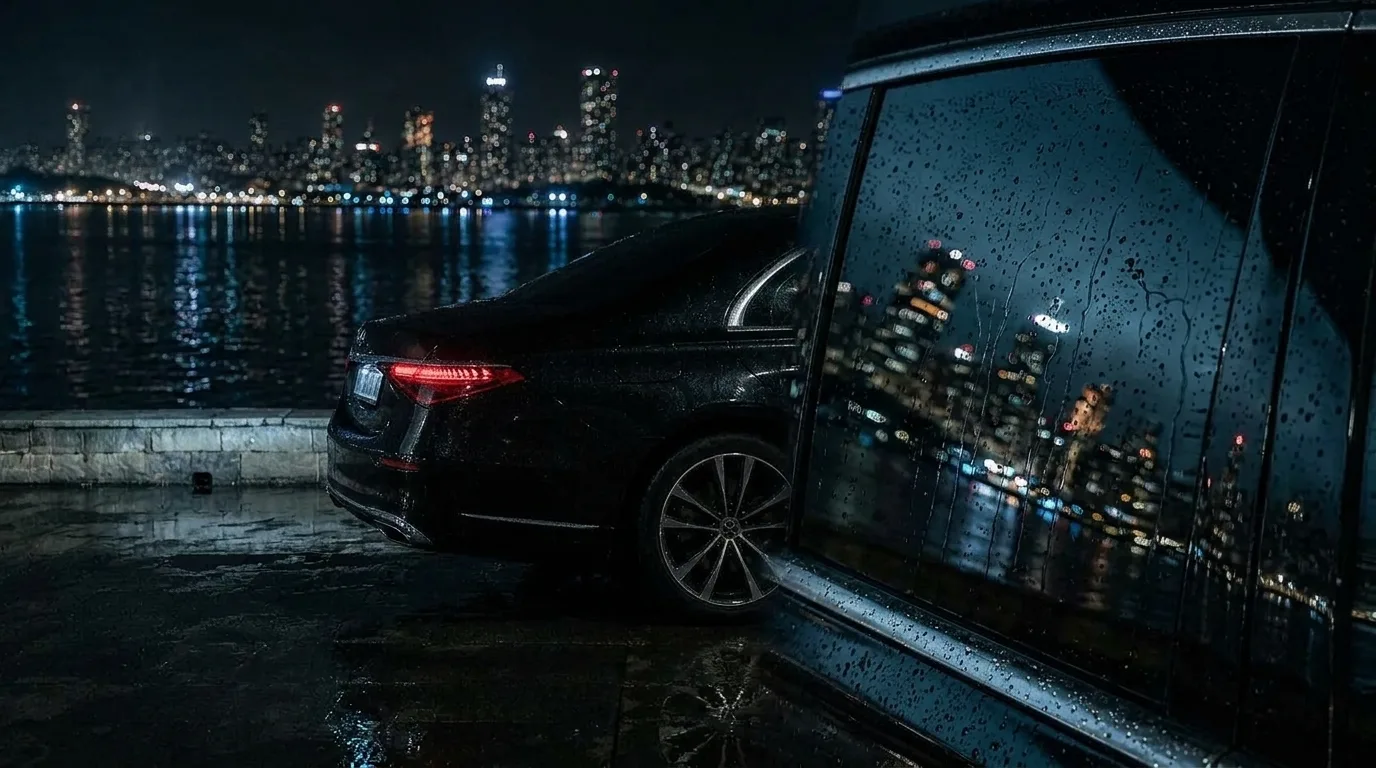
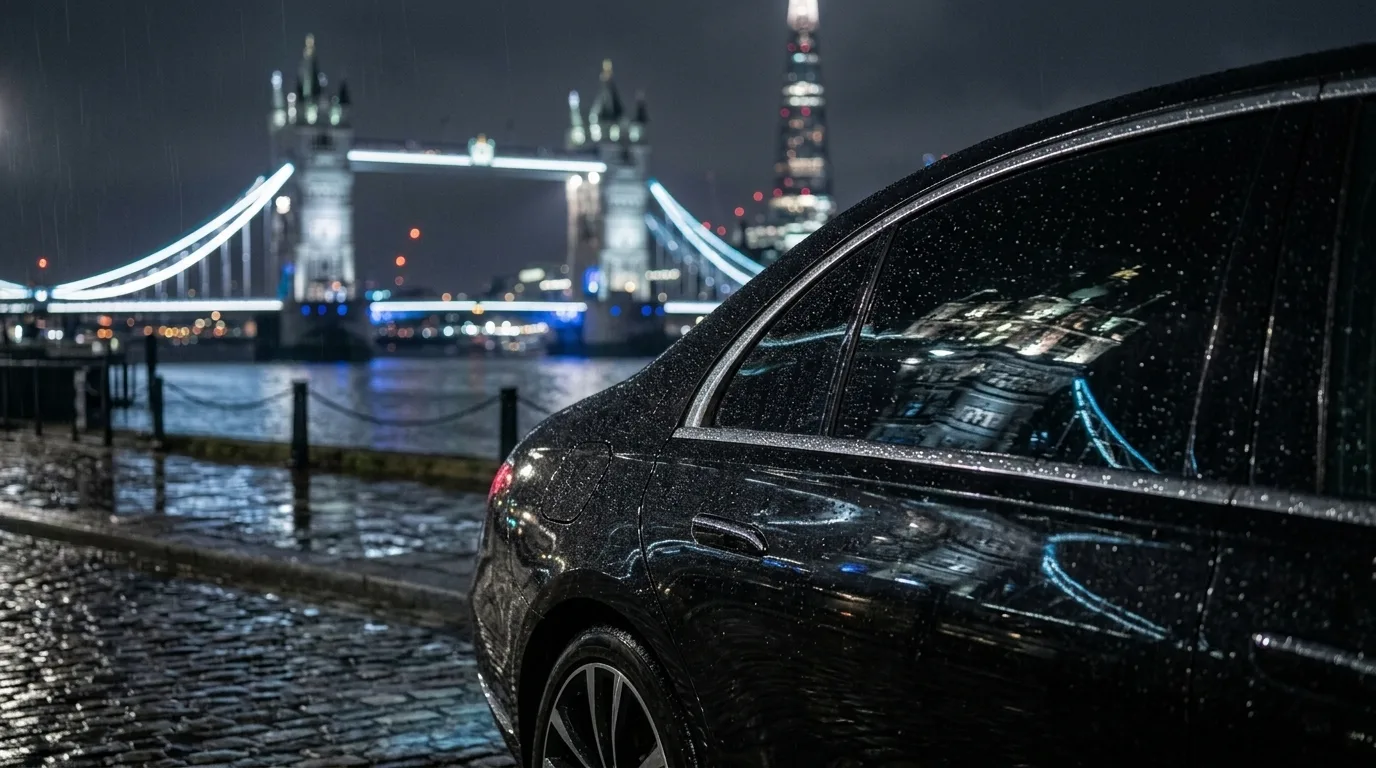
Pre-vis: the twelve boards move to Shad Thames
Tower Bridge through every window and in every reflection, generated
against the chosen London plates. The fan frame was regenerated until
all seven plies kept the window silhouette, and the half-open window
frame until the pane rose inside the door channel.

Claude-Session: https://claude.ai/code/session_01GpKZzA7NLXU8SsS5S9TWzf

diff --git a/docs/direction.md b/docs/direction.md
@@ -25,14 +25,9 @@ Decision needed: **generic saloon** (safe, recommended) vs a **specific licensed
 
 ## The place
 
-London, on the Thames, at night. Every shot looks across the river at a skyline a Londoner recognises in one glance. The first storyboards used a generic harbour skyline; that is replaced. Candidate vantages, one to be chosen from the London plate sheet:
+**Shad Thames, decided 7 September 2026.** Every shot looks across the river at Tower Bridge lit white and blue, its two Gothic towers and high walkways, with the City cluster and the Shard behind. Plates: `docs/previs/london-11.webp` (cabin) and `london-21.webp` (kerb). The other three vantages on `london-sheet.jpg` (Bankside, South Bank, Rotherhithe) were reviewed and passed over.
 
-- **Bankside:** St Paul's dome and the City cluster (Gherkin, Cheesegrater, Walkie-Talkie, 22 Bishopsgate), Millennium Bridge.
-- **Shad Thames:** Tower Bridge lit white and blue, City cluster and the Shard behind.
-- **South Bank:** Palace of Westminster and Big Ben lit gold, Westminster Bridge.
-- **Rotherhithe:** Canary Wharf, One Canada Square and the glass towers.
-
-The same vantage is used for the Blender backdrop (a night HDRI shot on the Thames, or a matte-painted plate on a card behind the river) so the reflection in the glass and the view through it agree.
+The same vantage is used for the Blender backdrop (a night HDRI shot on the Thames, or a matte-painted Tower Bridge plate on a card behind the river) so the reflection in the glass and the view through it agree. The bridge's cool blue light is the fill colour in every shot; the amber strip inside is the only warm source.
 
 ## Shot list
 
@@ -112,7 +107,6 @@ Ten clips, each with a one-line note on what specifically sells the material.
 ## Open decisions
 
 - [ ] Generic saloon vs licensed model
-- [ ] London vantage (Bankside, Shad Thames, South Bank, Rotherhithe)
 - [ ] Display typeface: licensed (Söhne, Neue Haas Grotesk, ABC Diatype) vs Google Fonts (Archivo, Familjen Grotesk)
 - [ ] Domain name and host (Cloudflare Pages recommended)
 - [ ] Real contact email to replace `studio@driveyours.example`
